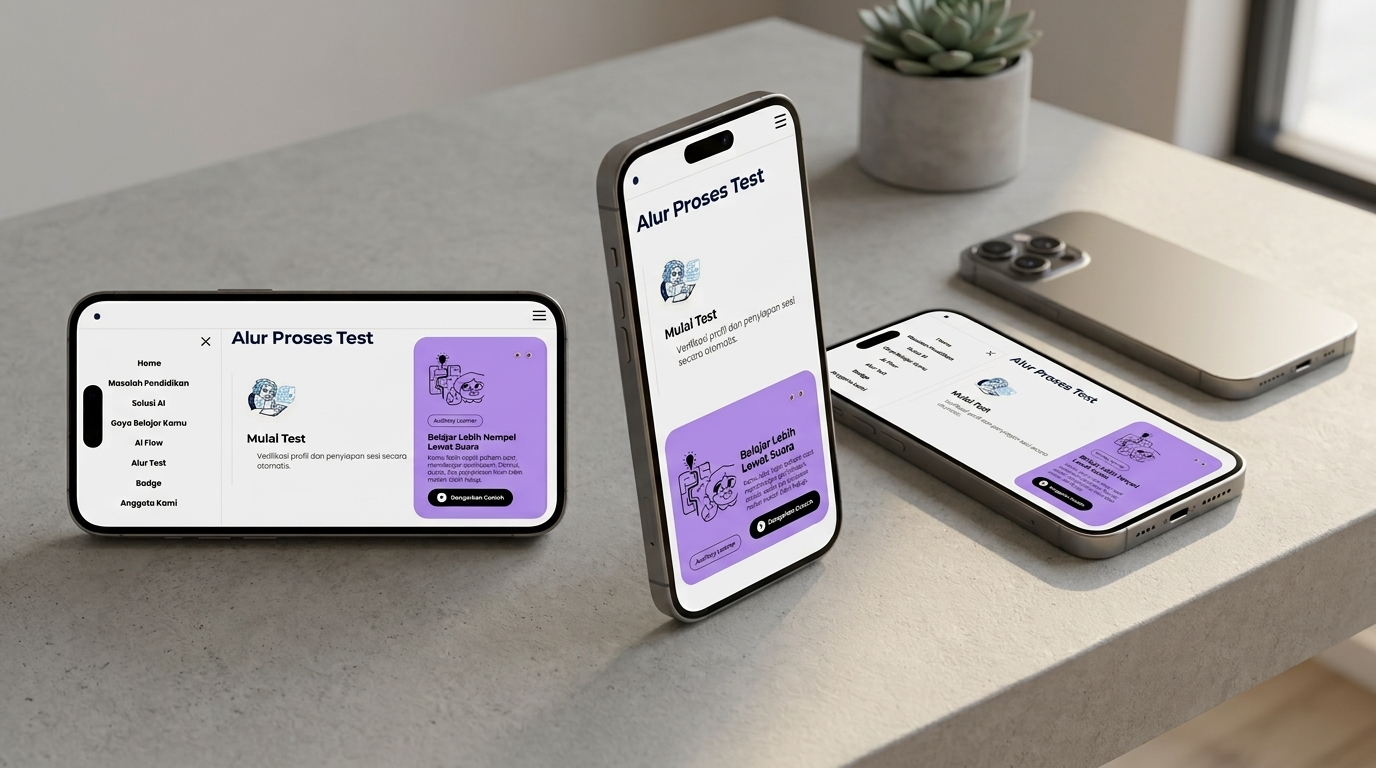
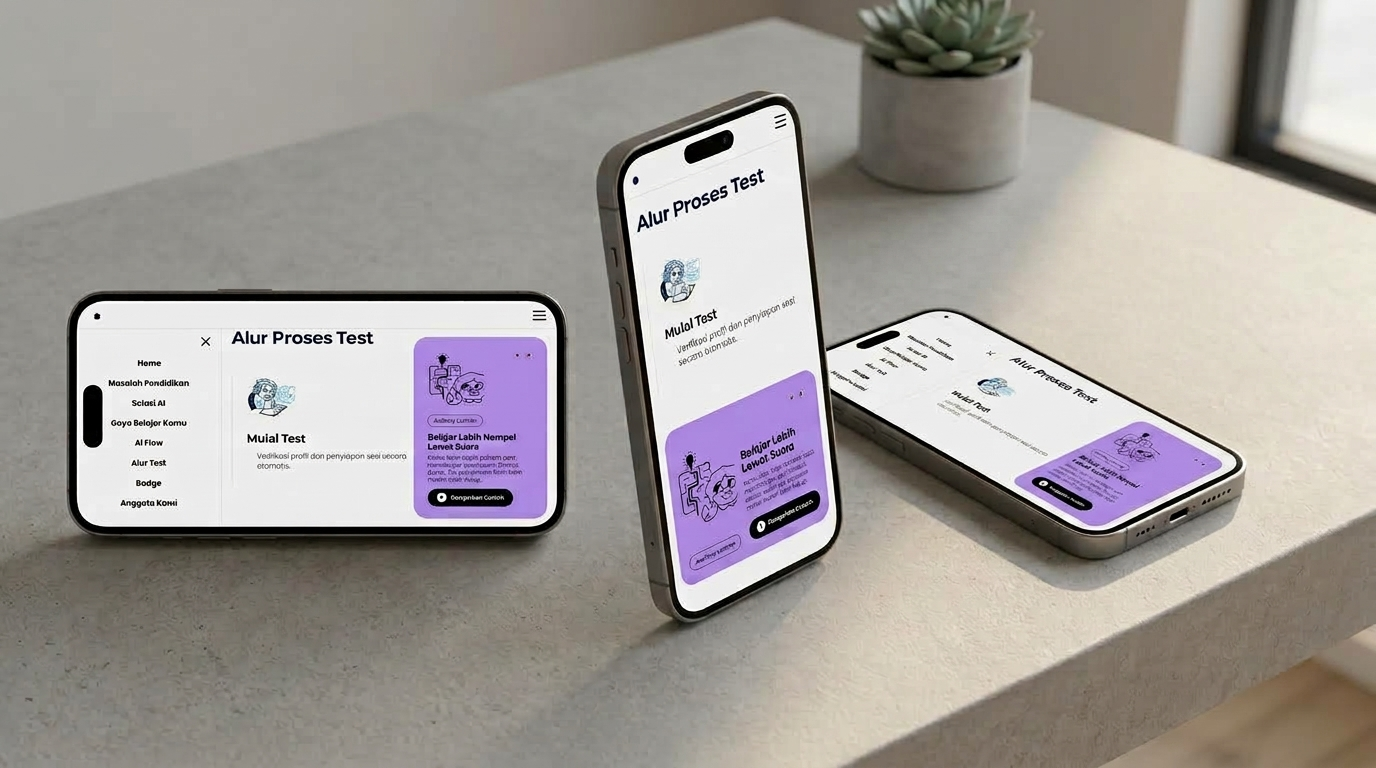
set up project.js

diff --git a/src/data/projects.js b/src/data/projects.js
@@ -1,10 +1,12 @@
 import amdShopImage from "../assets/images/img1.png";
 import coffeeImage from "../assets/images/img3.png";
-import amdtablet from "../assets/images/img5.png";
-import amdmobile from "../assets/images/img4.png";
+import amdTablet from "../assets/images/img5.jpg";
+import amdMobile from "../assets/images/img4.jpg";
 import nalarImage from "../assets/images/img6.jpg";
 import nalartablet from "../assets/images/img7.jpg";
 import nalarMobile from "../assets/images/img8.jpg";
+import coffeeProject from "../assets/images/img9.jpg";
+import coffeeMockup from "../assets/images/img10.jpg";
 
 export const projects = [
   {
@@ -14,7 +16,7 @@ export const projects = [
     stack: ["React", "Tailwind CSS", "Node.js"],
     description:
       "Platform e-commerce dengan alur belanja lengkap — katalog produk, keranjang, hingga checkout — dibangun dengan arsitektur full-stack yang rapi dan mudah dikembangkan.",
-    images: [amdShopImage, amdmobile, amdtablet],
+    images: [amdShopImage, amdMobile, amdTablet],
     link: "https://amdshop.vercel.app/",
   },
 
@@ -30,12 +32,23 @@ export const projects = [
   {
     name: "Coffeeshop Design",
     type: "UI Design · transactional",
-    status: "LIVE",
+    status: "Prototype",
     stack: ["Figma", "Adobe Illustrator"],
     description:
       "Sebuah UI design mobile app, yang dirancang untuk memudahkan pelanggan dalam memesan kopi di kedai kopi favorit mereka, dengan fokus pada pengalaman pengguna yang intuitif dan visual yang menarik.",
-    images: [coffeeImage],
-    link: "https://www.figma.com/file/0Z7g1k5J3j3j3j3j3j3j3/Coffeeshop-Design?node-id=0%3A1&t=abc123",
+    images: [coffeeImage, coffeeProject, coffeeMockup],
+    link: "https://www.figma.com/design/tJY7V2KoUVPlb1okU6AaDD/Design-Coffee-Shop?node-id=0-1&t=hSH4v13Xz2dDyEOR-1",
+  },
+
+  {
+    name: "Nalar.",
+    type: "AI Web App · Group Project",
+    status: "LIVE",
+    stack: ["HTML", "CSS", "JavaScript"],
+    description:
+      "Web berbasis AI yang membantu mendeteksi dan mengukur tingkat minat belajar terhadap anak-anak, dan dapat memberikan rekomendasi materi pembelajaran yang sesuai dengan minat mereka.",
+    images: [nalarImage, nalartablet, nalarMobile],
+    link: "https://nalar.netlify.app/",
   },
 
   {
